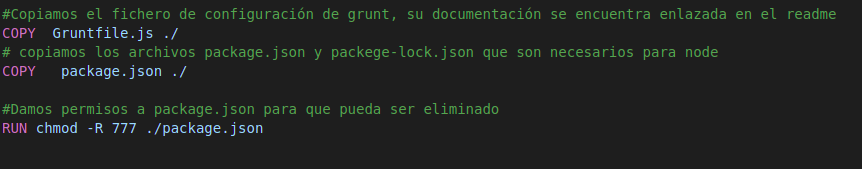
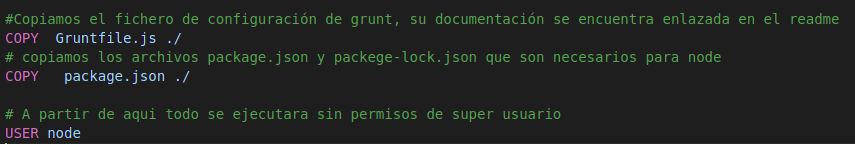
Actualizacion buenas practicas, closes #28

diff --git a/docs/buenas_practicas.md b/docs/buenas_practicas.md
@@ -32,9 +32,7 @@ Es importante tener claro el objetivo con el que creamos nuestro Dockerfile, y m
     -CMD: es una ejecucuón de comandos por defecto trás crear el contenedor, en mi caso mi objetivo es ejecutar los test.
 ![](pic/cmd.png)
 
-    - ADD y COPY tienen uncionalidades similares, aunque COPY es mas utilizado. COPY soporta el copiado básico de archivos locales al contenedor, mientras que ADD tiene otras funcionalidades como la extracción local de archivos tar. Cuando necesitemos una autoextracción de un archivo hacia el contenedor, la mejor opción es ADD, en mi caso simplemente quiero la copia deL fichero package.json por lo que hice uso de COPY. Recordad que si vamos a usar una usuario sin privilegios, y después queremos borrar algun archivo, estos ficheros debemos copiarlos dandole permiso al usuario.
-    
-Esto lo encontré en una [pagina de git](https://github.com/nodejs/docker-node/issues/740)
+    - ADD y COPY tienen uncionalidades similares, aunque COPY es mas utilizado. COPY soporta el copiado básico de archivos locales al contenedor, mientras que ADD tiene otras funcionalidades como la extracción local de archivos tar. Cuando necesitemos una autoextracción de un archivo hacia el contenedor, la mejor opción es ADD, en mi caso simplemente quiero la copia deL fichero package.json por lo que hice uso de COPY. 
 
 ![](pic/COPY.png)
 
@@ -66,9 +64,6 @@ En mi caso he tenido que hacer una variable de entorno, ya que tenía errores co
 De forma predeterminada, Docker ejecuta el contenedor como raíz, lo que dentro del contenedor puede resultar algo peligroso, para poder ejecutar el contenedor como un usuario sin privilegios, node nos proporciona el usuario "node", valga la redundancia, por lo que nos evitamos crear un usuario, que también es posible.
 
 En mi caso intenté ejecutar poniendo USER node tras copiar los archivos package.json y Gruntfile.js y antes de ejecutar npm install... ¿y que pasó? 
-![](pic/intento1.png)
-
-
 ![](pic/permisos1.png)
 
 Pues lo obvio, no tenía permisos sobre el directorio,lo que hice para evitar darle permisos a todo el path / creo una carpeta node_modules que es donde se buscan las dependencias,  buscando encontre como dar permisos en [stackoverflow](https://stackoverflow.com/questions/48910876/error-eacces-permission-denied-access-usr-local-lib-node-modules)
